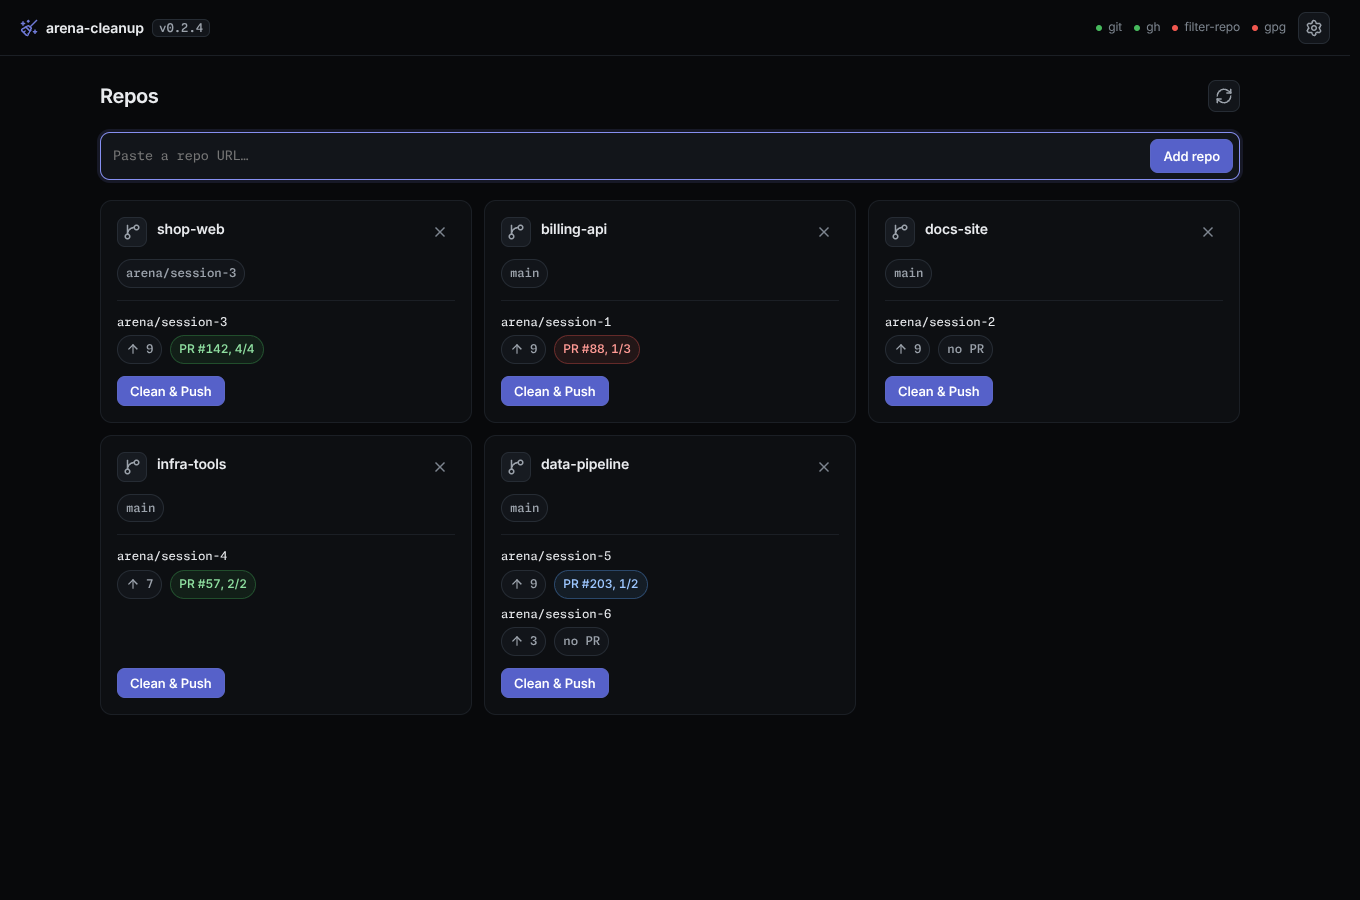
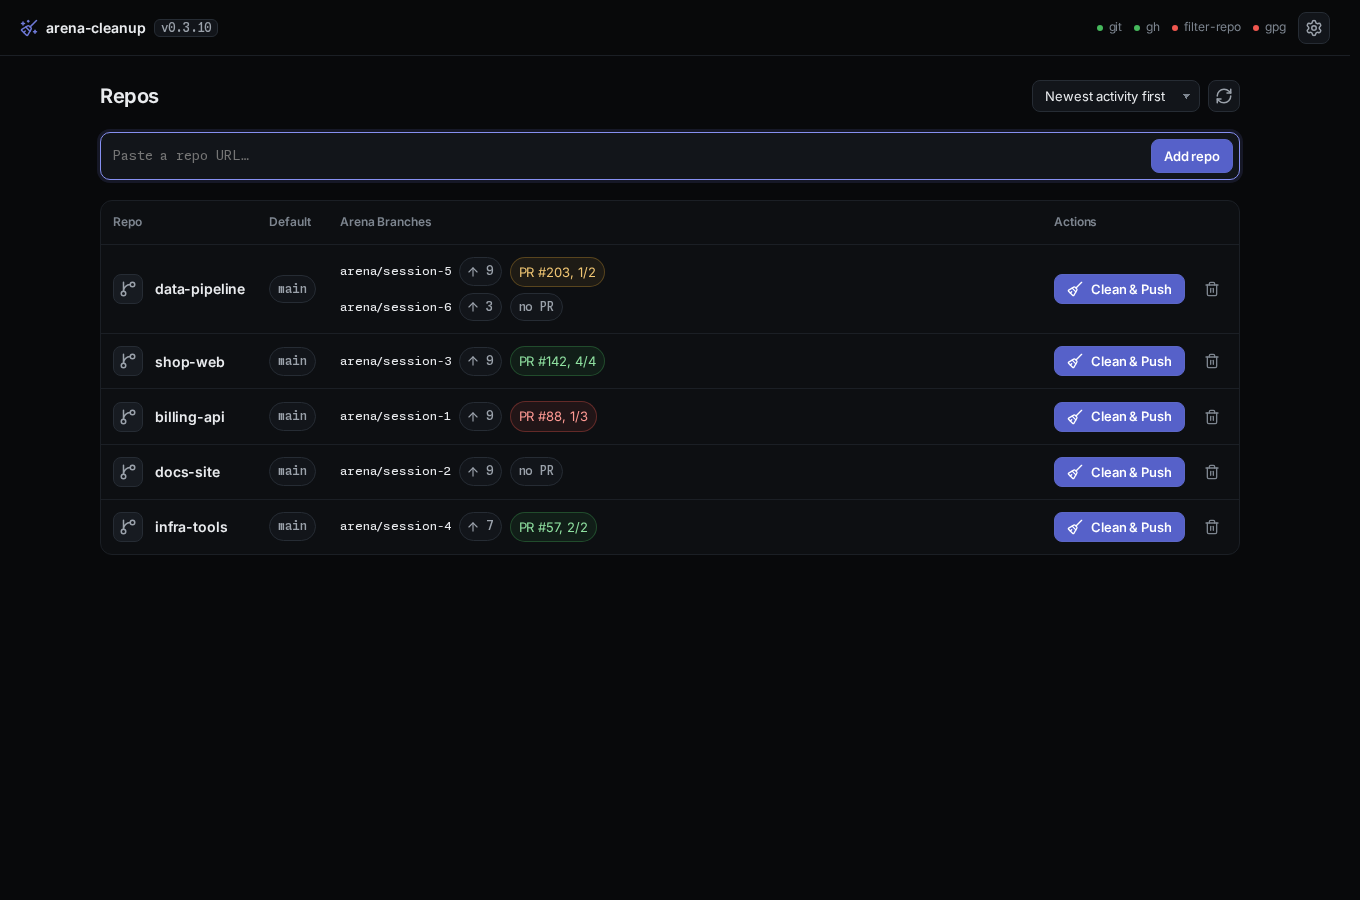
docs: refresh the README dashboard image from the demo view

diff --git a/docs/design.md b/docs/design.md
@@ -297,7 +297,7 @@ The one design record for the arena-cleanup web app. Its sections follow the nem
   - See the decision below.
 - Readiness: implemented. The spacing audit runs in `tests/e2e/`, the walk from `scripts/walk.py`.
 - Boards: `docs/boards.json` names the seven boards below. Six are HTML fragments in `docs/boards/`, styled by the live stylesheet, and one frames the demo views.
-  - Shoot the views: `uv run scripts/walk.py --views --out docs/walk/views`.
+  - Shoot the views: `uv run scripts/walk.py --views --out docs/walk/views`. Its `dashboard` view doubles as `docs/ui-overview.png` in README: copy it over.
   - Render: `nuu board -T design -s docs/boards.json -o docs/design` after a token, glyph, or component change. Edit the fragment when a token or glyph joins `index.html`.
 
 ### Boards

diff --git a/CHANGELOG.md b/CHANGELOG.md
@@ -28,6 +28,8 @@ and the project uses [Semantic Versioning](https://semver.org/spec/v2.0.0.html).
 - The rows fold into cards by measurement: the page lays the table out at
   its natural width and folds it once that outgrows the room, on each
   render and on each resize. A fixed 1200 px fold no longer applies.
+- The README dashboard image is the demo dashboard view at 1360 by 900 px,
+  the same shot the views board frames.
 
 ## [0.3.9] - 2026-10-24
 
